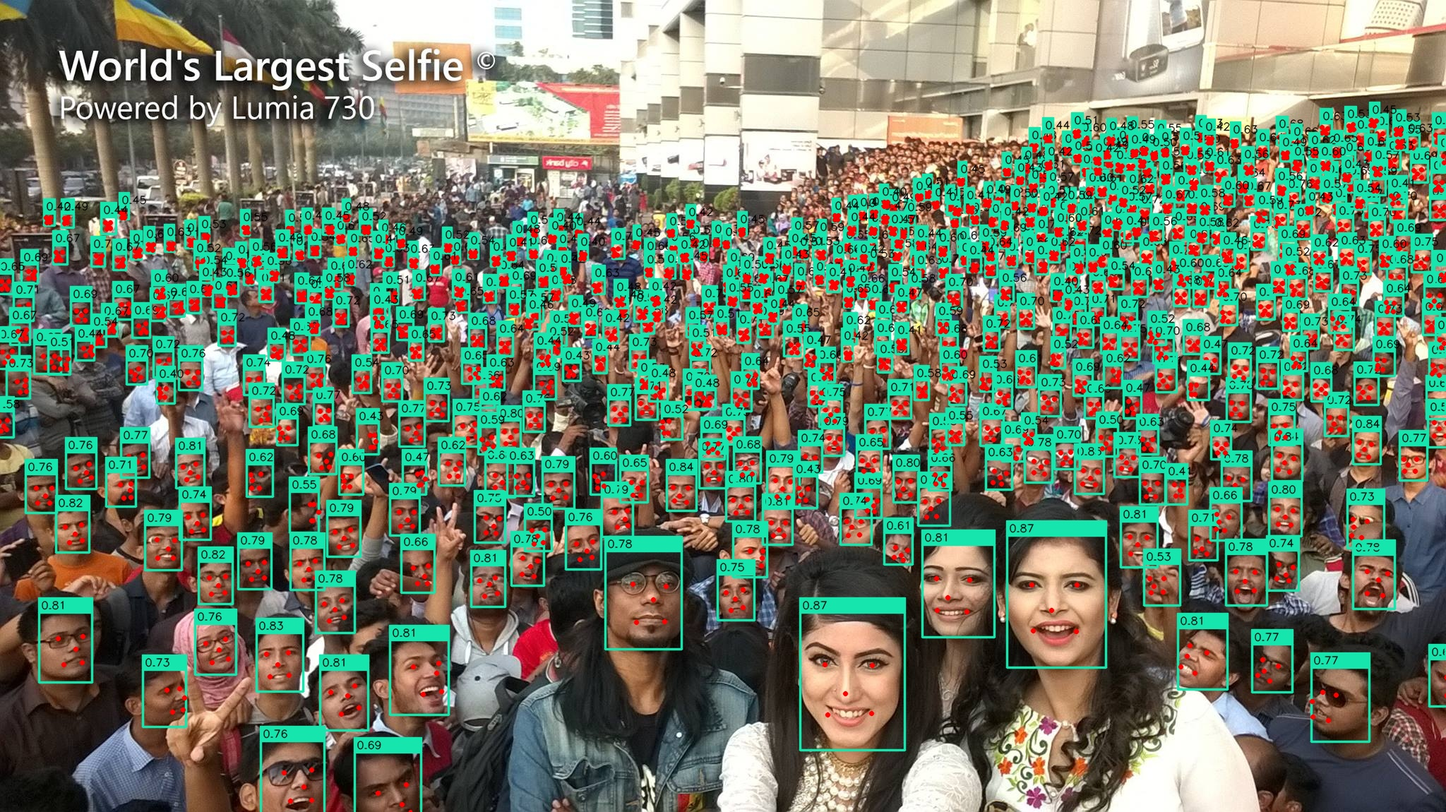
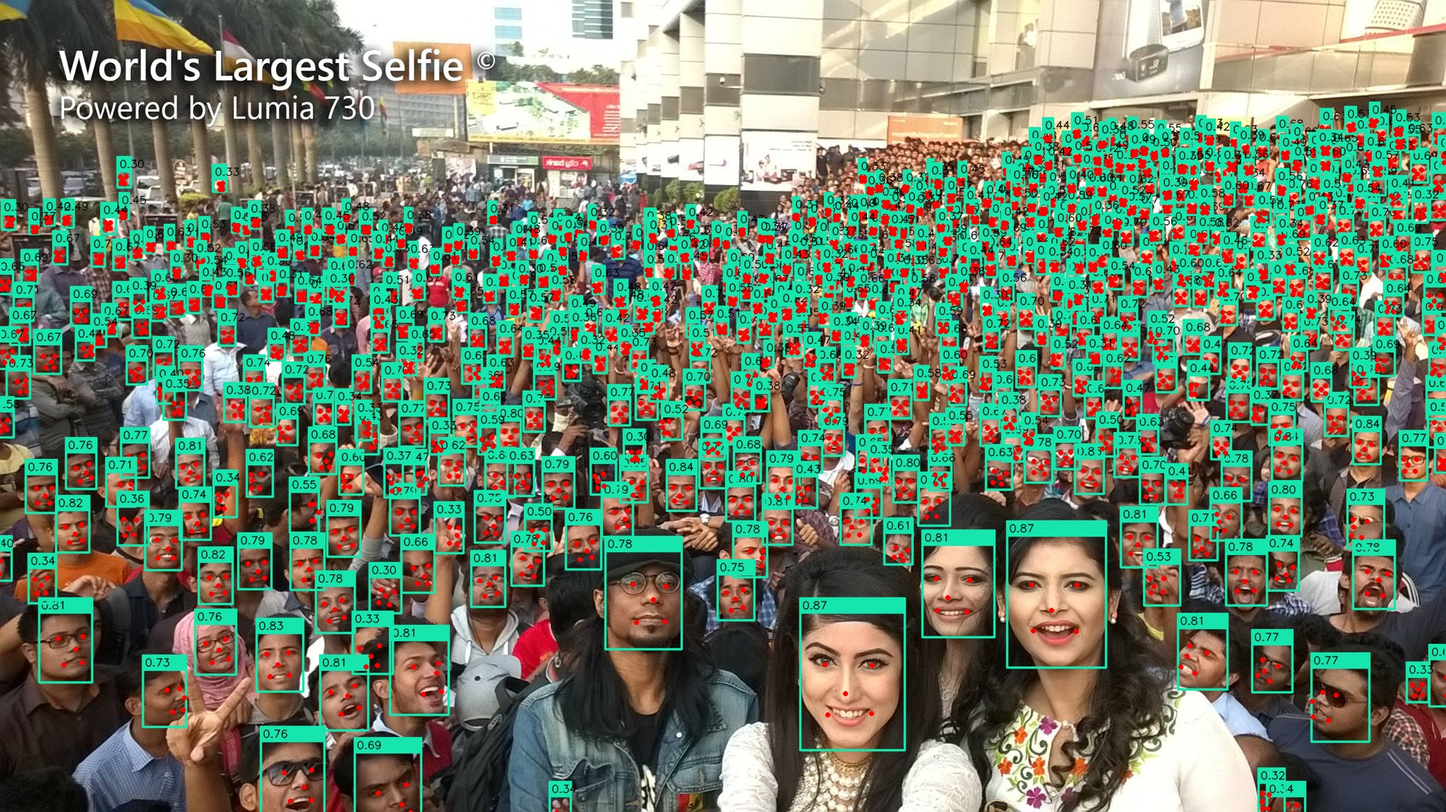
update readme

diff --git a/main_small.py b/main_small.py
@@ -31,7 +31,7 @@ def nms(objs, iou=0.5):
     return keep
 
 
-def detect(model, image, threshold=0.4, nms_iou=0.5):
+def detect(model, image, threshold=0.3, nms_iou=0.3):
 
     mean = [0.408, 0.447, 0.47]
     std = [0.289, 0.274, 0.278]

diff --git a/README.md b/README.md
@@ -45,13 +45,17 @@ CenterFace-MobileNetV2 | Large | 7.3MB | ? | ? | ?
 
 
 
-## Speed and Train
+## Train
 
-coming soon...
+[train.md](train/small/README.md)
+
+<br/>
 
 
 ## Onnx And TensorRT
 [tensorRTIntegrate](https://github.com/dlunion/tensorRTIntegrate)
+
+<br/>
 
 
 ## Author
